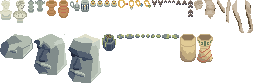
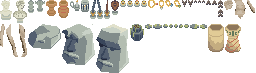
Collection log: Twin Staves became Twin Cutlass (left) and (right); Staff and Idol became Longsword and Shield (each its own find)
Claude-Session: https://claude.ai/code/session_01Xiux81LEqjvUithNNjQsjc

diff --git a/js/data.js b/js/data.js
@@ -45,8 +45,10 @@ const ARTIFACTS = [   // collectible finds: each one is found with a "% intact" 
   { id: 'meadium_arrowhead', art: 'meadium_arrowhead', name: 'Medium Arrowhead', r: 1, desc: 'Good for birds, in a pinch.' },
   { id: 'large_arrowhead_2', art: 'large_arrowhead_2', name: 'Large Arrowhead', r: 1, desc: 'Meant for something that was larger.' },
   { id: 'large_arrow_head', art: 'large_arrow_head', name: 'Long Arrowhead', r: 1, desc: 'Longer than it ever needed to be.' },
-  { id: 'layer_15_4', art: 'layer_15_4', name: 'Twin Staves', r: 1, desc: 'Two of them. Nobody knows what for.' },
-  { id: 'layer_15_5', art: 'layer_15_5', name: 'Staff and Idol', r: 1, desc: 'The idol is not impressed either.' },
+  { id: 'cutlass_left', art: 'cutlass_left', name: 'Twin Cutlass (Left)', r: 1, desc: 'Half of a matched pair, and the sharper half.' },
+  { id: 'cutlass_right', art: 'cutlass_right', name: 'Twin Cutlass (Right)', r: 1, desc: 'Its twin is around here somewhere.' },
+  { id: 'longsword', art: 'longsword', name: 'Longsword', r: 1, desc: 'Long on reach, short on manners.' },
+  { id: 'shield', art: 'shield', name: 'Shield', r: 1, desc: 'Dented in all the right places.' },
   { id: 'bust', art: 'bust', name: 'Marble Bust', r: 1, desc: 'Very serious about its nose.' },
   { id: 'bust_2', art: 'bust_2', name: 'Noble Bust', r: 1, desc: 'Looks like it has opinions on taxes.' },
   { id: 'cerimonial_vase', art: 'cerimonial_vase', name: 'Ceremonial Vase', r: 1, desc: 'Plain, patient, and waiting for flowers.' },

diff --git a/tools/museum_interior_export.py b/tools/museum_interior_export.py
@@ -154,6 +154,7 @@ json.dump({'size': 16, 'cols': COLS, 'count': len(tset), 'walk': walk, 'tmpl': T
 CASES = {'case_1x1': 'Artifacts_1x1', 'case_2x1': 'Artifacts_2x1', 'case_2x2': 'Artifacts_2x2', 'case_3x2': 'Artifacts_3x2'}
 MGROUP = {'case_1x1': '1*1 (3)', 'case_2x1': '2x1', 'case_2x2': '2x2', 'case_3x2': '3x2'}   # the same case in Museum_interior.aseprite (hidden, with the items placed in it)
 SPLIT = {'Busts'}                                                                         # groups whose pictures are separate items
+SPLIT_SINGLE = {'Layer 15 (4)': (('cutlass_left', 'Cutlass left'), ('cutlass_right', 'Cutlass right')), 'Layer 15 (5)': (('longsword', 'Longsword'), ('shield', 'Shield'))}   # two weapons in one layer: each is its own find
 EXHIBITS = {   # permanent exhibits: stages in the order you would build them. 'add' = each stage adds a piece to the last; 'swap' = each stage is its own picture
     'Standing sculpture': ('add', ['Left leg', 'Right leg', 'Torso', 'Left arm', 'Rightarm', 'Head'], ['Shadow'], ['Shadow', 'Completed Sculpture']),
     'Carvel monument': ('swap', [['Carved monument bottom'], ['Carved monument middle']], [], ['Carved monument complete']),
@@ -211,7 +212,13 @@ for cn, fn in CASES.items():
             else: stg = [[ids[s] for s in st] for st in steps]
             entries.append((n, [ids[s] for s in done] if done else stg[-1], stg))
         elif AL[i]['type'] == 1: entries.append((n, leaves(AL, i), None))
-        else: entries.append((n, [i], None))
+        else:
+            entries.append((n, [i], None))
+            if n in SPLIT_SINGLE:   # one layer that holds two objects side by side (left, right): cut apart at the empty column between them
+                im = AI[i]; bb = im.getbbox(); cols_ = [any(im.getpixel((x, y))[3] for y in range(bb[1], bb[3])) for x in range(bb[0], bb[2])]
+                gaps = [x for x in range(1, len(cols_) - 1) if not cols_[x]]; cut = gaps[len(gaps) // 2] + bb[0] if gaps else (bb[0] + bb[2]) // 2
+                for (k_, lab_), box in zip(SPLIT_SINGLE[n], ((bb[0], bb[1], cut, bb[3]), (cut, bb[1], bb[2], bb[3]))):
+                    part = Image.new('RGBA', im.size); part.paste(im.crop(box), box[:2]); PIECES[k_] = {'label': lab_, 'set': slug(n), 'img': part}
     common = {}
     for n, ids, stg in entries:
         im = stack(AI, ids, w, h); b = im.getbbox(); dy = mdy[cn].get(key(im))
